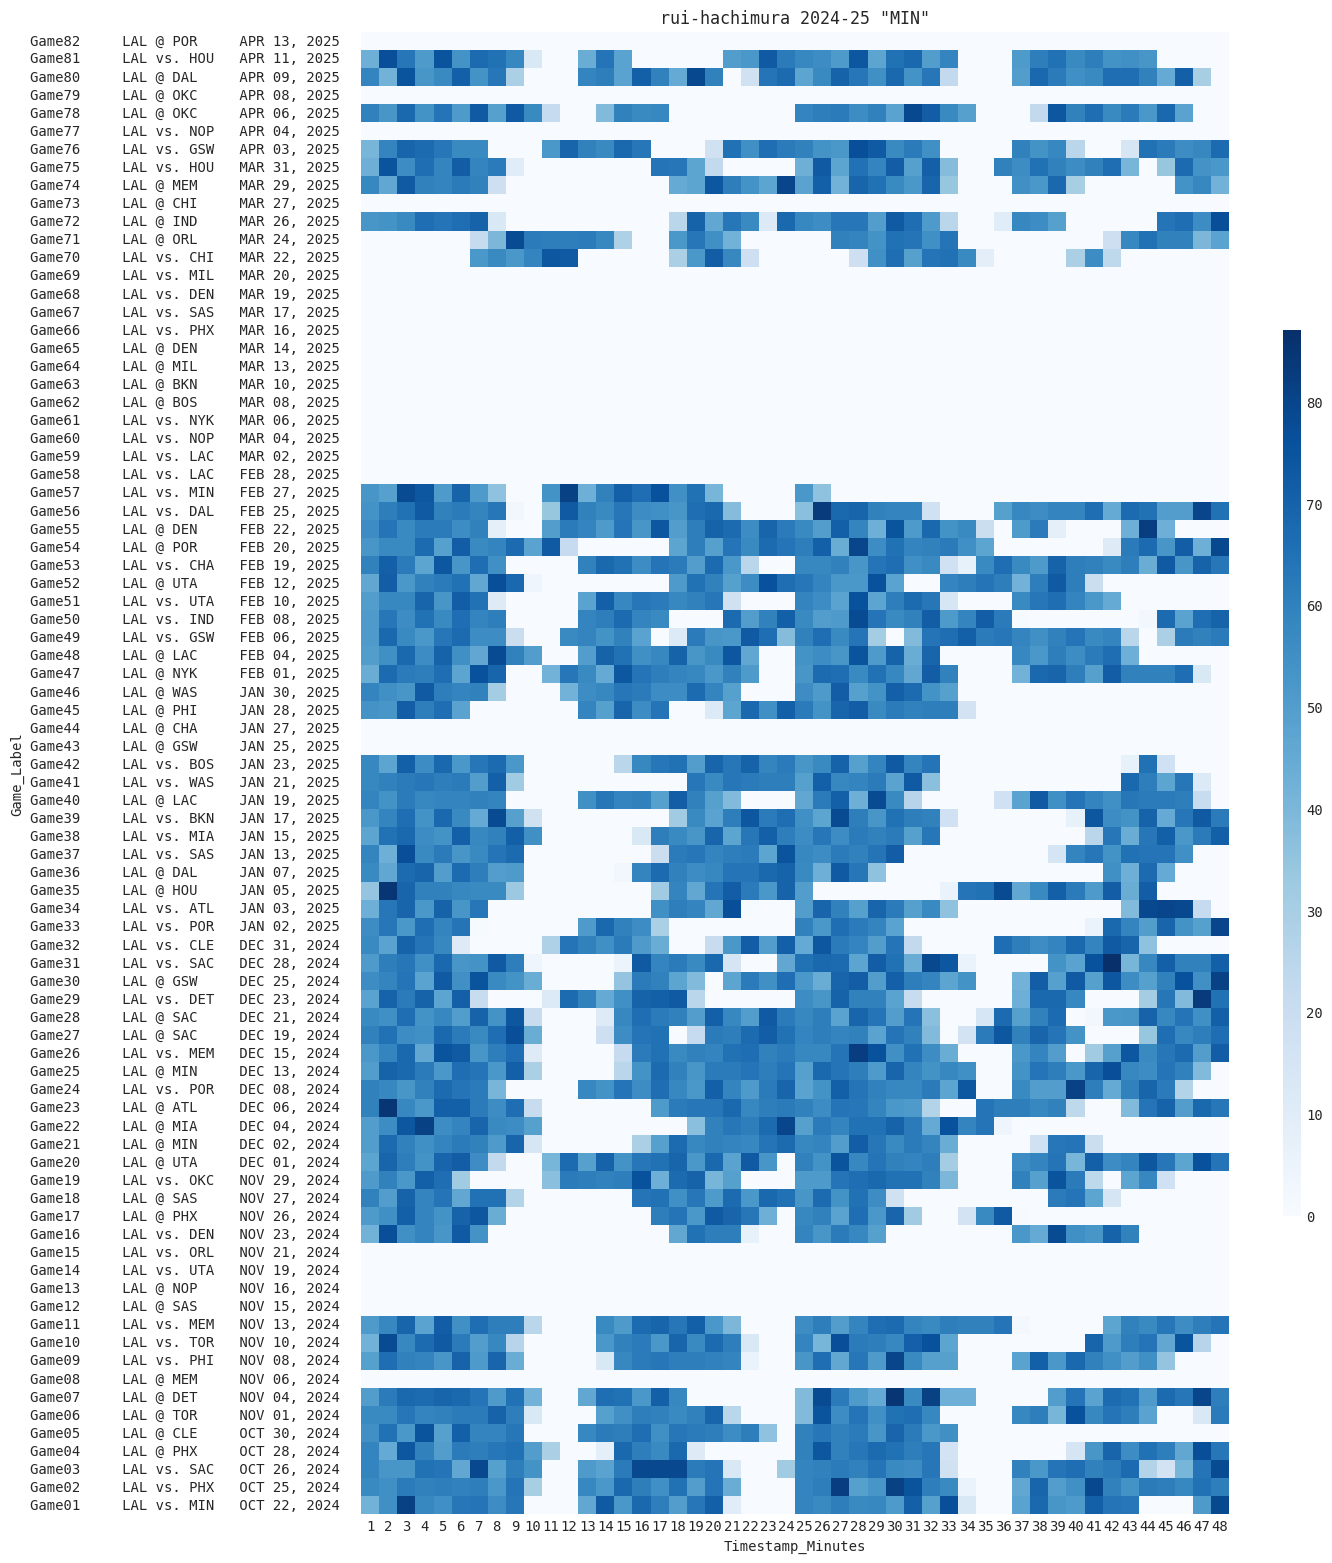
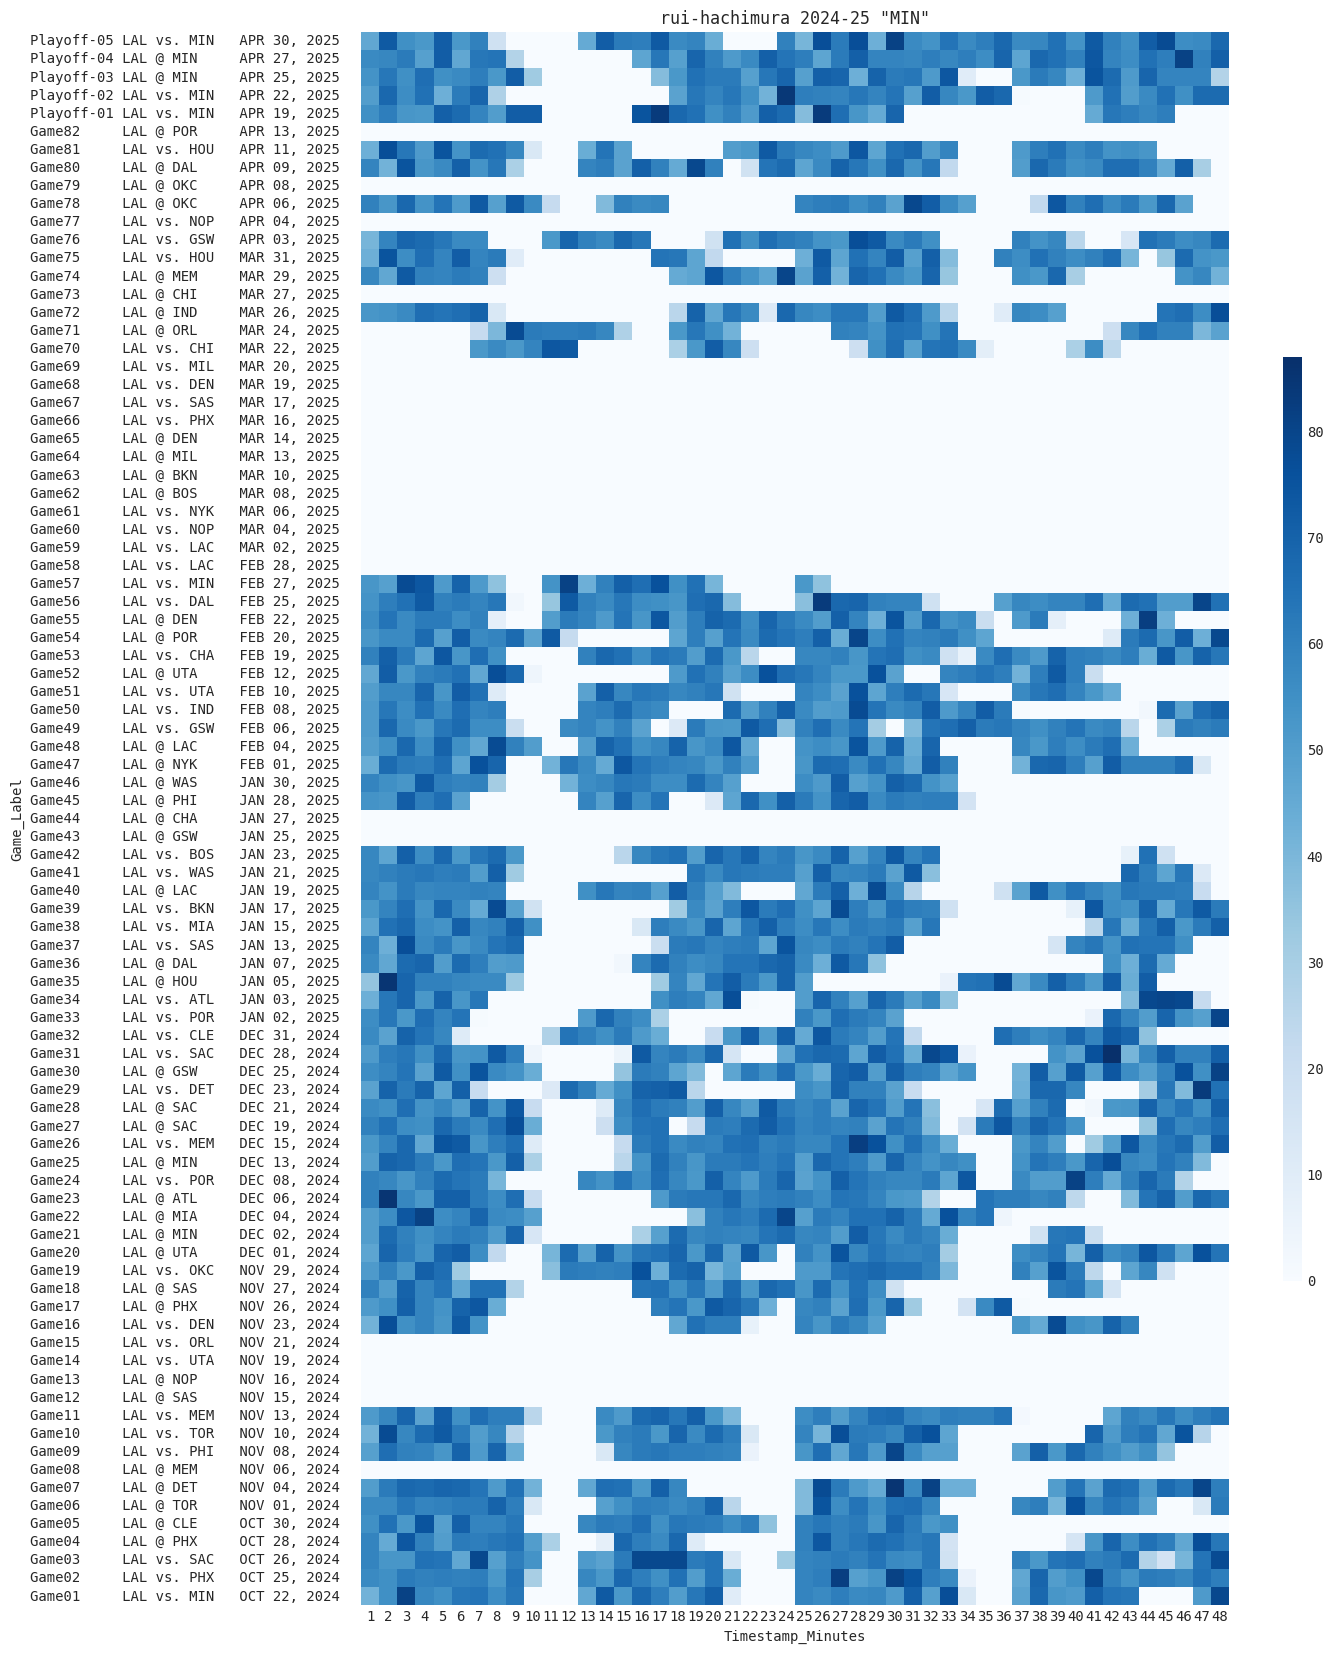
Finished the 2024-25 season of Japanese players.

diff --git a/2024-25.md b/2024-25.md
@@ -1,5 +1,5 @@
 ## 活躍状況 2024-25 シーズン
-> Last Update: 2025-04-14 23:36:56
+> Last Update: 2025-05-06 22:52:59
 - (注)オーバータイム時の情報は対象外です。
 
 ### 八村塁 Rui Hachimura
